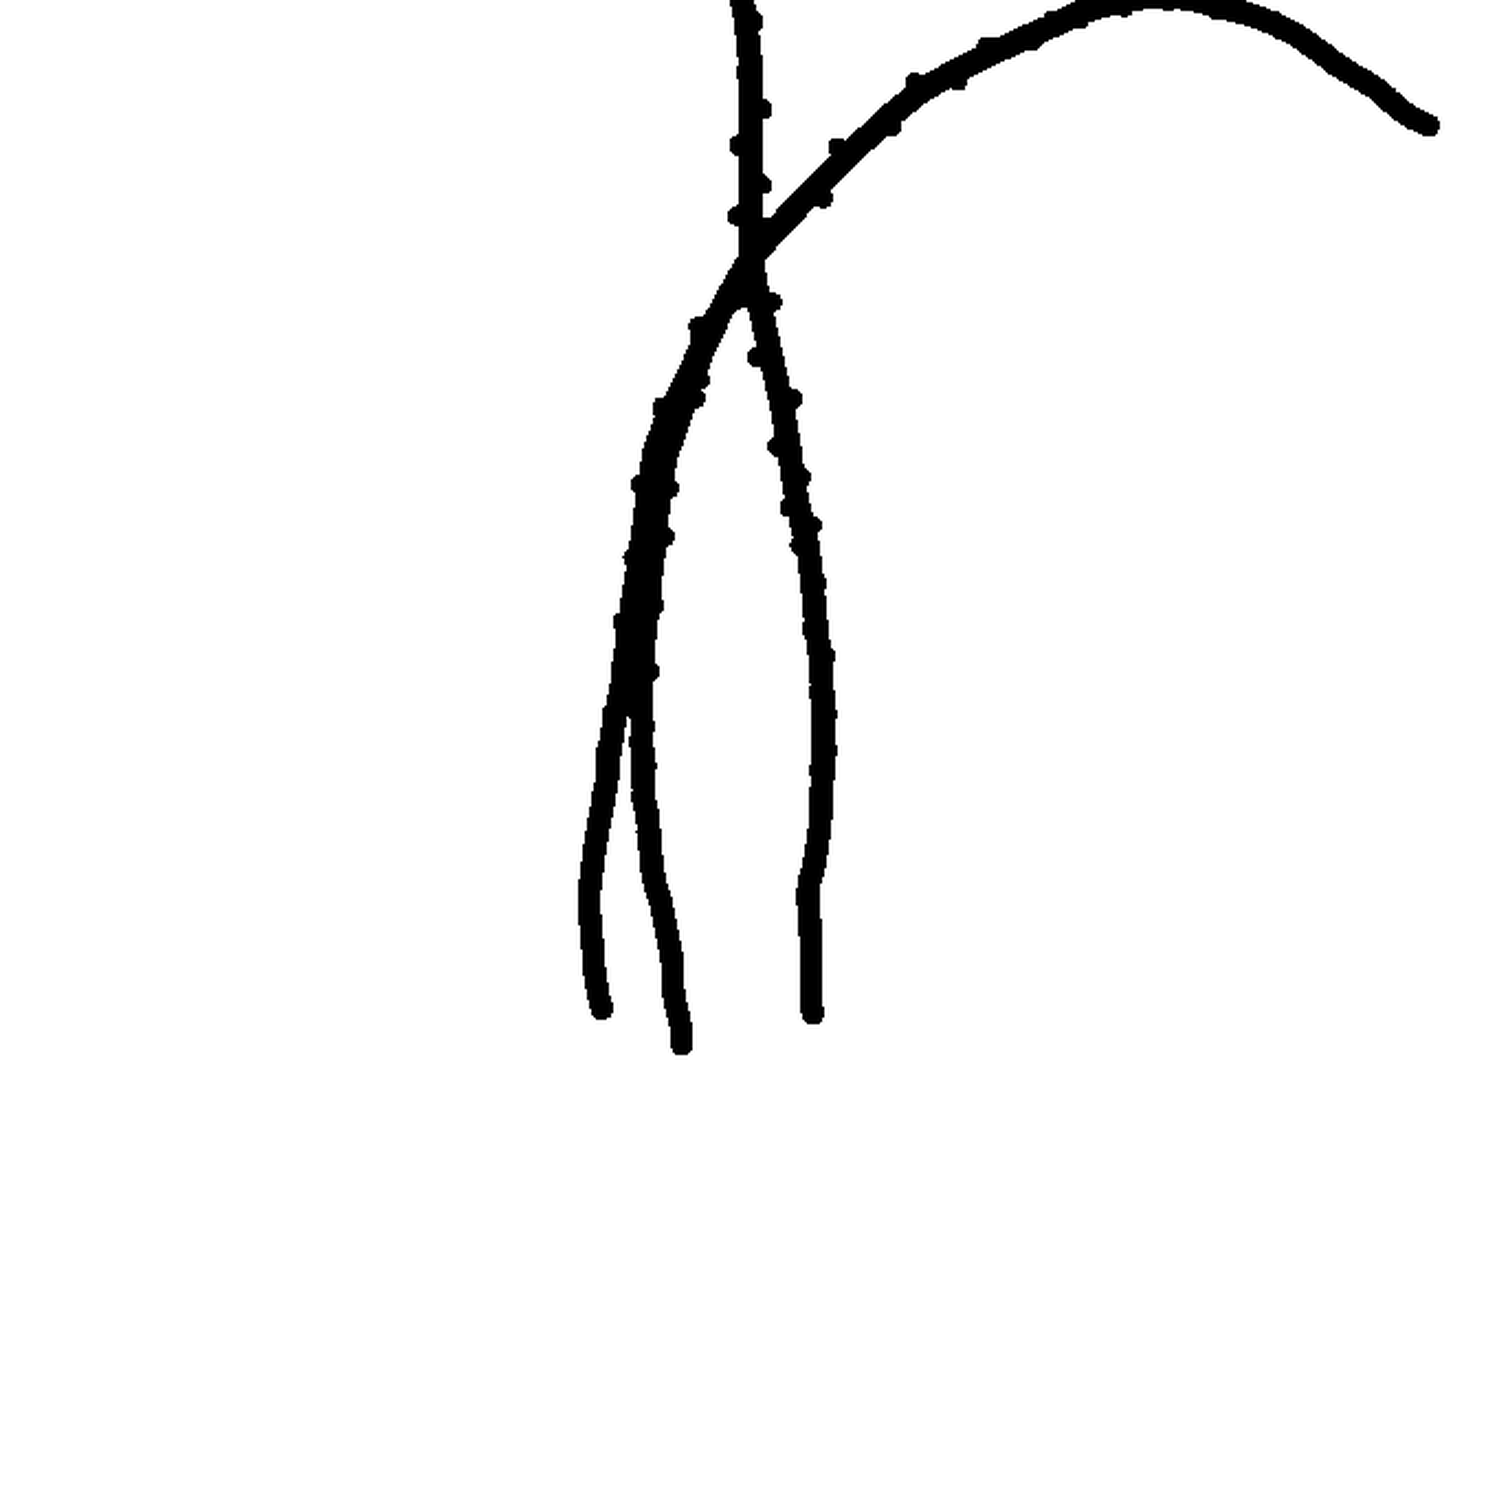
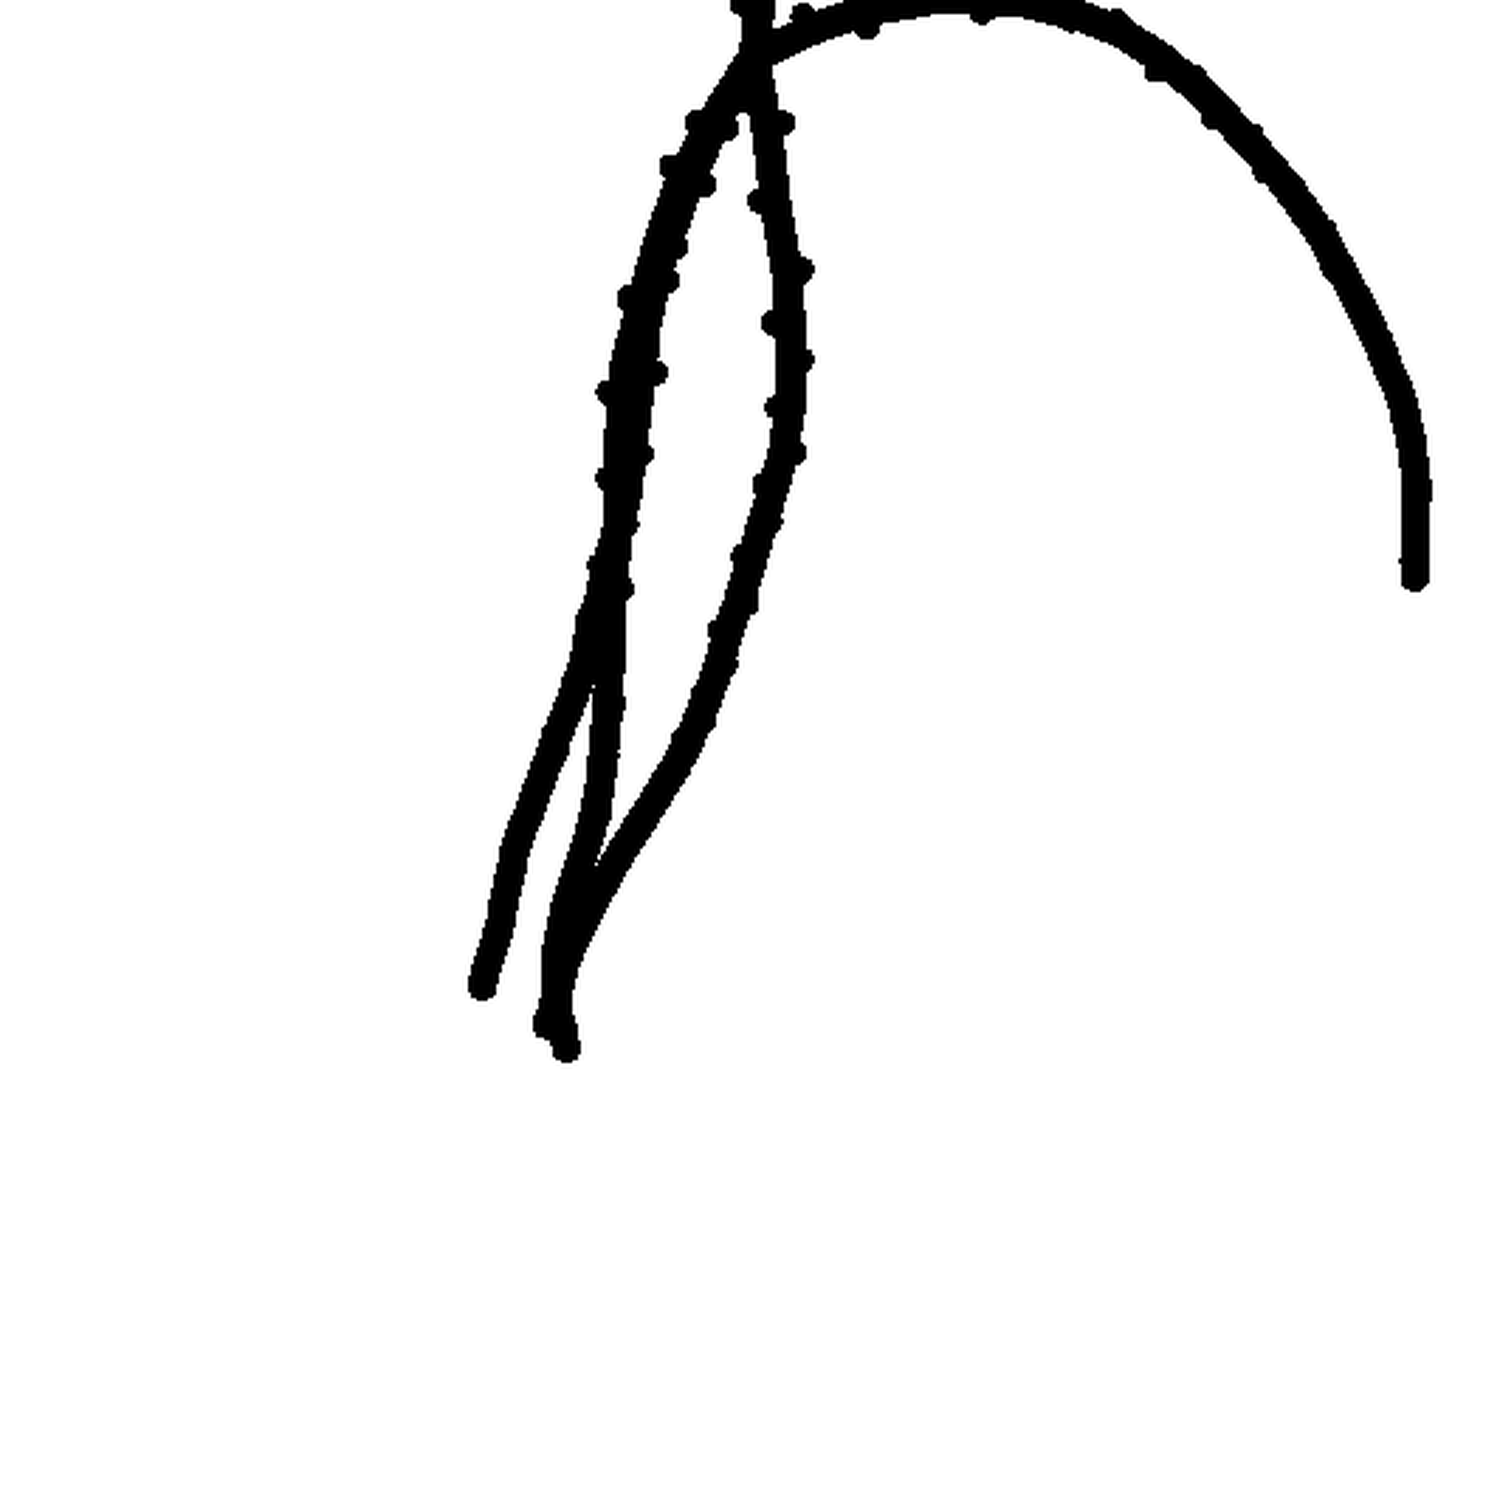
graphs and images

Changed region(s): [[0.3073, 0.0, 0.9526, 0.7058], [0.9218, 0.0614, 0.9833, 0.0921]]

diff --git a/main.py b/main.py
@@ -152,17 +152,17 @@ if __name__ == "__main__":
     # ga_instance.run()
 
     drawer = ParamLSystemDrawer(
-        alpha_zero=90,
-        start_position=(0, -300),
+        alpha_zero=270,
+        start_position=(0, 330),
         screensize=(700,700)
     )
 
-    # ga_instance.plot_fitness()
-    # lsystem = createRootSystem(ga_instance.best_solutions[-1])
-    # drawer.drawSystem(lsystem, "best_4", False, True)
+    #ga_instance.plot_fitness()
+    lsystem = createRootSystem(ga_instance.best_solutions[100])
+    drawer.drawSystem(lsystem, "best_4", False, True)
 
-    MonoTree.iterate(12)
-    drawer.drawSystem(MonoTree, 'tree_no_gravitropism', False, True)
+    # MonoTree.iterate(12)
+    # drawer.drawSystem(MonoTree, 'tree_gravitropism', False, True)
     # advanced_root.iterate(3)
     # print(advanced_root.system)
     # drawer.drawSystem(advanced_root, None, False, True)

diff --git a/GA.py b/GA.py
@@ -106,7 +106,7 @@ def fitness_func_4(ga_instance, solution, solution_idx):
         root_systems.append(createRootSystem(s))    
         
         area_covered_inputs = copy.deepcopy(s)
-        area_covered_inputs[6] += 40 # increase starting width
+        area_covered_inputs[6] += 30 # increase starting width
         # branch width falloff, resize the range to 0.7 - 1
         # NewValue = (((OldValue - OldMin) * NewRange) / OldRange) + NewMin
         area_covered_inputs[11] = (area_covered_inputs[11] * 0.3) + 0.7
